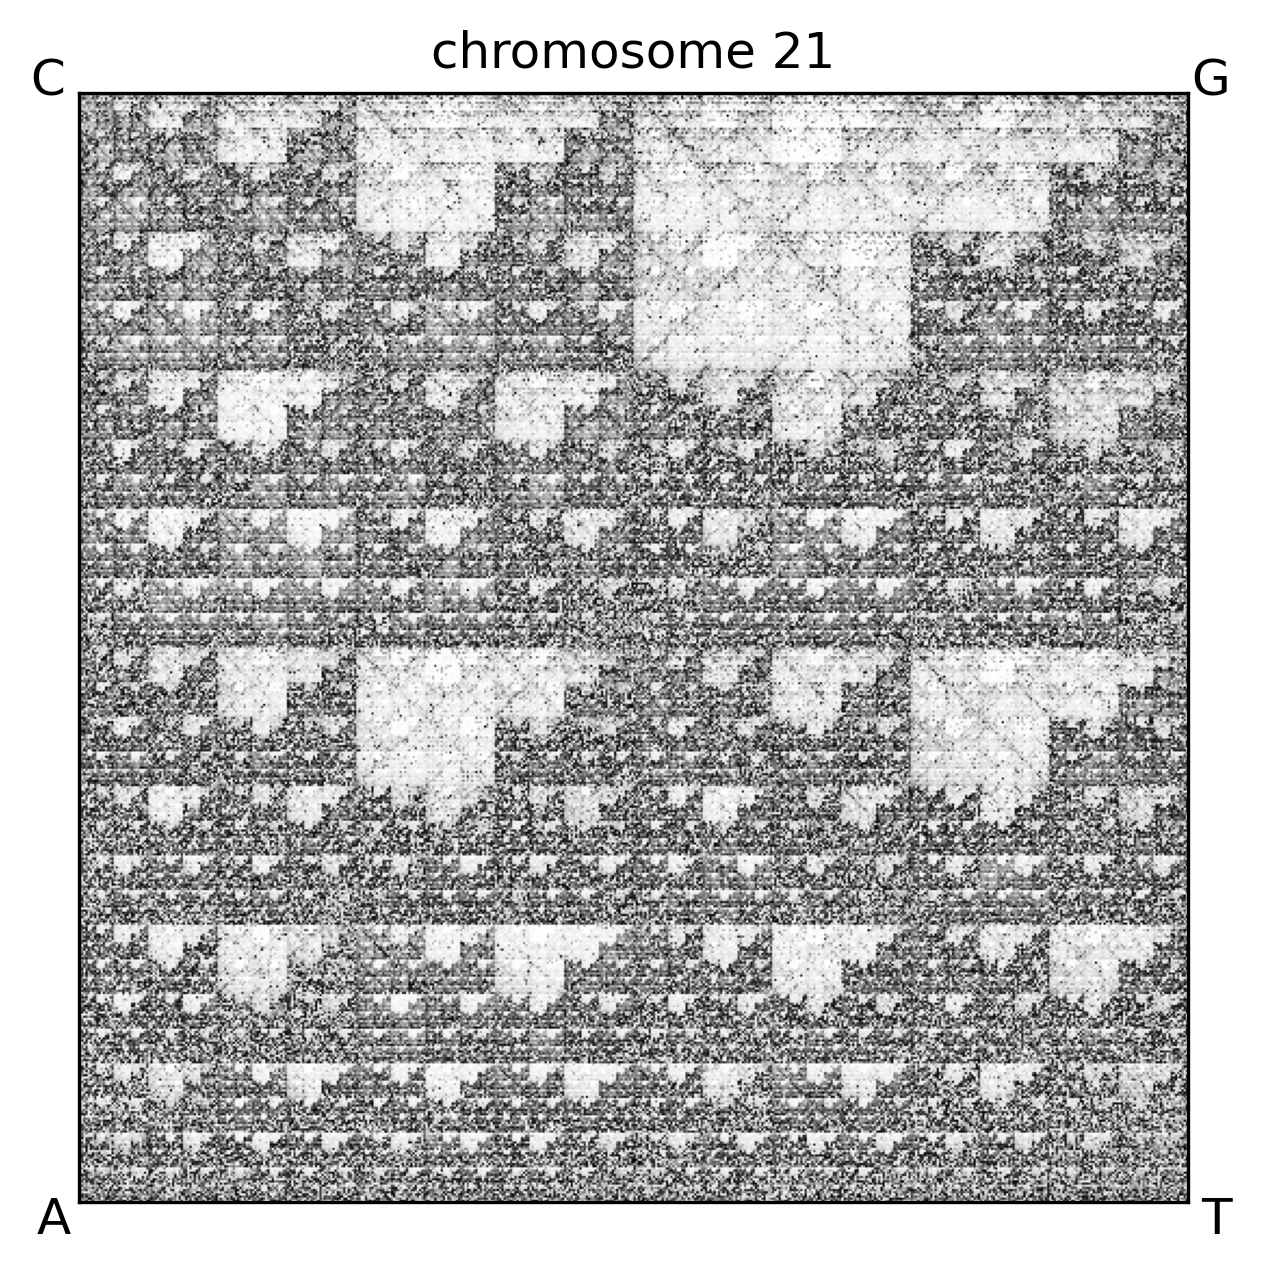
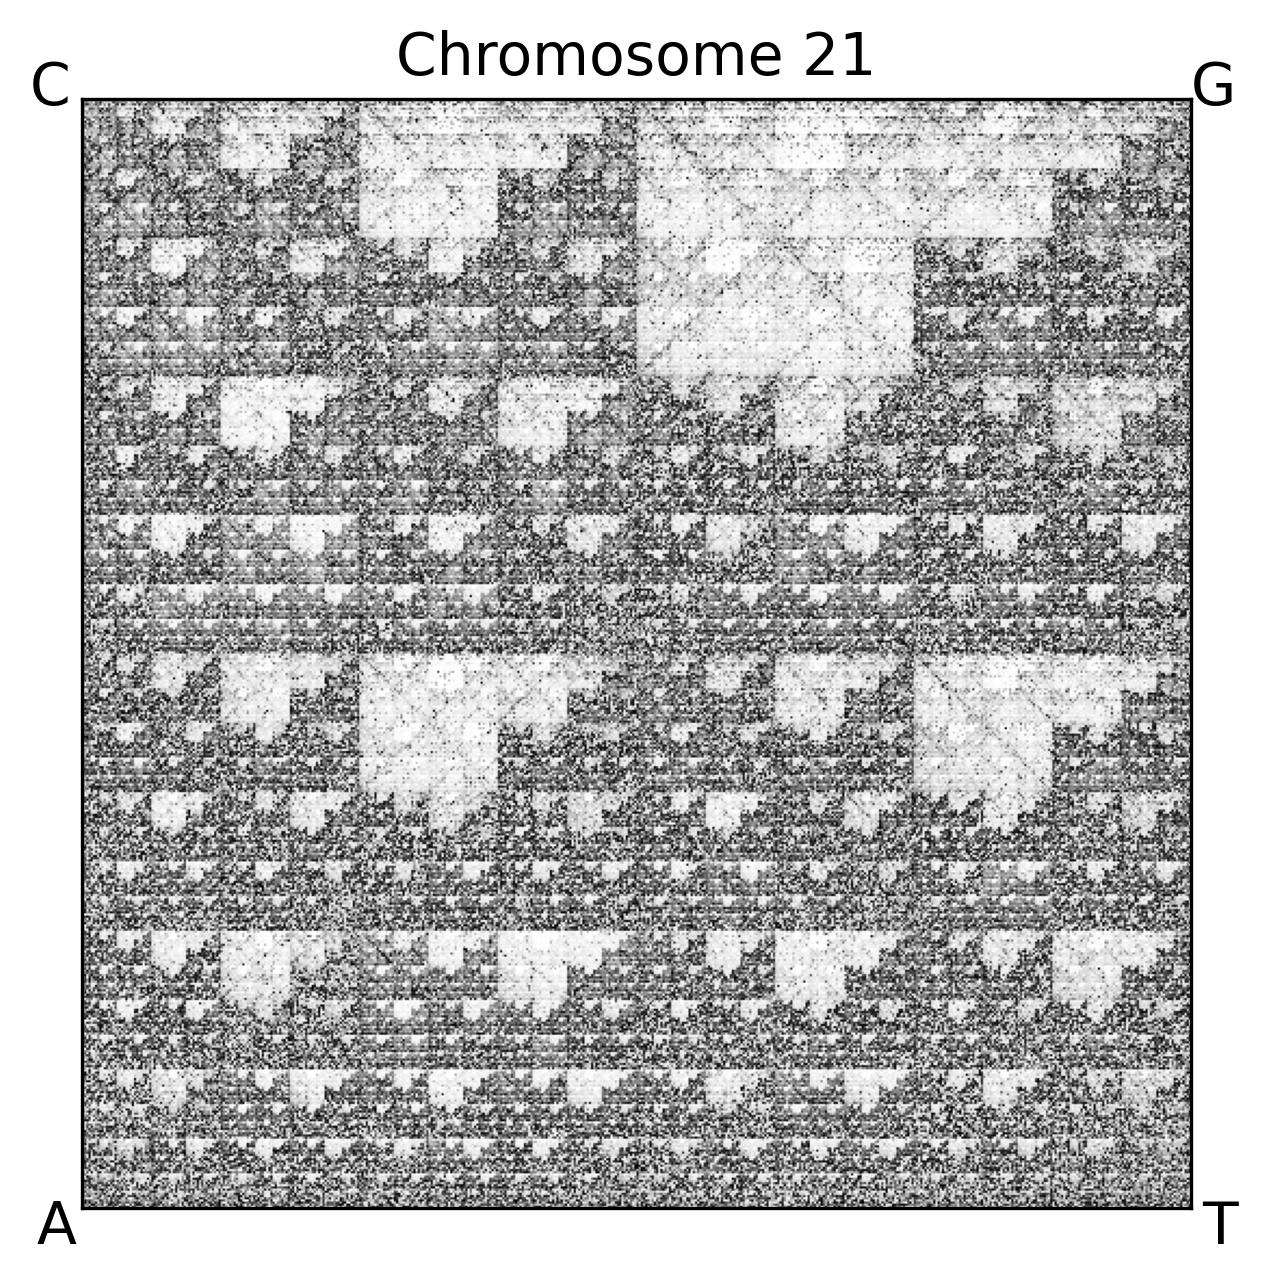
Added multi_dimensional_scaling function and tested it.

diff --git a/representative_selection.py b/representative_selection.py
@@ -3,12 +3,15 @@ import os
 import pickle
 
 import numpy as np
+import pandas as pd
+from sklearn.manifold import MDS
 from matplotlib import pyplot as plt
 from tqdm import tqdm
 
 from chaos_game_representation import CGR
-from chromosomes_holder import ChromosomesHolder
+from chromosomes_holder import ChromosomesHolder, AnnotationRecord
 from distances.distance_metrics import get_dist
+import plotly.express as px
 
 
 class ChromosomeRepresentativeSelection:
@@ -19,7 +22,8 @@ class ChromosomeRepresentativeSelection:
         if segment_length is not None:
             self.length = segment_length
         else:
-            self.length = self.chromosomes_holder.get_appropriate_segment_length()
+            self.length = self.chromosomes_holder.get_appropriate_segment_length(scale='genome')
+        print(f"Segment length for {self.specie} is {self.length}")
         self.distance_metric = distance_metric
 
         self.pickle_path_root = f"./outputs/cache_pickles/{self.specie}/"
@@ -105,9 +109,6 @@ class ChromosomeRepresentativeSelection:
                 "fcgr": representative_dict['fcgr'],
                 "type": "approximative"}
 
-    def plot_multi_dimensional_scaling(self):
-        pass
-
     def get_distance_from_representative(self, chromosome_name, representative_dict):
         if representative_dict['type'] == "approximative":
             fcgrs = self.get_fcgrs_of_segments(chromosome_name)
@@ -158,7 +159,7 @@ class ChromosomeRepresentativeSelection:
             plt.plot(distance_from_outlier_representative, marker='o', linestyle='-', markersize=4, color='purple')
 
         if plot_approximate:
-            approximate_representative_dict = self.get_approximate_representative(chromosome_name)
+            approximate_representative_dict = self.get_approximate_representative(chromosome_name, verbose=True)
             distance_from_approximate_representative = \
                 self.get_distance_from_representative(chromosome_name, approximate_representative_dict)
 
@@ -283,8 +284,46 @@ class ChromosomeRepresentativeSelection:
                 outlier_indices.append(index)
         return outlier_indices
 
+    @staticmethod
+    def plot_multi_dimensional_scaling(distance_matrix, info: list, representative_index=None, coloring_type='NCBI'):
+        mds = MDS(n_components=3, dissimilarity='precomputed', random_state=46)
+        mds_result = mds.fit_transform(distance_matrix)
+
+        # Add description for each data
+        data_description = np.asarray(
+            [f"<br>Start: {info[i].start}<br>band: {info[i].name}" for i in range(len(mds_result))])
+        labels = np.asarray([f"{info[i].color_name}" for i in range(len(mds_result))])
+        chrs = np.asarray([f"{info[i].chr_name}" for i in range(len(mds_result))])
+        data = {'x': mds_result[:, 0], 'y': mds_result[:, 1], 'z': mds_result[:, 2], 'description': data_description,
+                'labels': labels, 'chromosome': chrs}
+
+        if representative_index is not None:
+            data['labels'][representative_index] = "Representative"
+
+        df = pd.DataFrame(data)
+
+        if coloring_type == 'NCBI':
+            # Draw based on NCBI colors for each chromosome
+            fig = px.scatter_3d(df, x='x', y='y', z='z', color='labels', symbol='chromosome',
+                                color_discrete_map=AnnotationRecord.get_color_display_dict(),
+                                hover_data={'x': False, 'y': False, 'z': False, 'labels': False, 'chromosome': True,
+                                            'description': True})
+        elif coloring_type == 'Chromosome':
+            # Draw each Chromosome with different color
+            fig = px.scatter_3d(df, x='x', y='y', z='z', color='chromosome', symbol='chromosome',
+                                hover_data={'x': False, 'y': False, 'z': False, 'labels': False, 'chromosome': True,
+                                            'description': True})
+        else:
+            raise ValueError("Invalid coloring type")
+
+        fig.update_layout(scene=dict(xaxis=dict(range=[-1, 1]), yaxis=dict(range=[-1, 1]), zaxis=dict(range=[-1, 1])))
+        fig.show()
+
 
 if __name__ == '__main__':
     human_representative = ChromosomeRepresentativeSelection('human', 6, 'DSSIM')
     for chr_name in human_representative.chromosomes_holder.get_all_chromosomes_name():
-        human_representative.plot_distance_variations(chr_name)
+        human_representative.plot_distance_variations(chr_name, plot_random_outliers=False)
+        segments_info = human_representative.get_non_overlapping_segments(chr_name)['segments_information']
+        human_representative.plot_multi_dimensional_scaling(human_representative.get_distance_matrix(chr_name),
+                                                            segments_info, coloring_type='Chromosome')

diff --git a/chromosomes_holder.py b/chromosomes_holder.py
@@ -25,9 +25,21 @@ class AnnotationRecord:
         self.end = end
         self.group = group
         self.color = color
+        self.color_name = None
+        self.display_color = None
+        color_name = {"w": "White", "lg": "Light Gray", "g": "Gray", "dg": "Dark Gray", "b": "Black", "pi": "Pink",
+                      "pu": "Purple", "R": "Representative"}
+
+        if self.color is not None:
+            self.color_name = color_name[self.color]
 
     def __repr__(self):
         return f"{self.chr_name}_{self.name}, {self.start}, {self.end}, {self.group}"
+
+    @staticmethod
+    def get_color_display_dict():
+        return {"White": "#C0C0C0", "Light Gray": "#808080", "Gray": "#696969", "Dark Gray": "#505050",
+                "Black": "#000000", "Pink": "#fc9ea3", "Purple": "#c89efc", "Representative": "#ff0000"}
 
 
 class ChromosomesHolder:
@@ -73,11 +85,21 @@ class ChromosomesHolder:
     def get_largest_chromosome_length(self):
         return max(self.get_all_chromosome_length().values())
 
-    def get_appropriate_segment_length(self):
-        total_genome_length = sum(self.get_all_chromosome_length().values())
-        app_length = total_genome_length // 6234
-        app_length //= 1000
-        app_length *= 1000
+    def get_appropriate_segment_length(self, scale='genome'):
+        """
+        :param scale: chromosome or genome
+        """
+        if scale == 'genome':
+            total_genome_length = sum(self.get_all_chromosome_length().values())
+            app_length = total_genome_length // 6234
+            if app_length > 1000:
+                app_length //= 1000
+                app_length *= 1000
+        else:
+            app_length = self.get_largest_chromosome_length() // 500
+            if app_length > 1000:
+                app_length //= 1000
+                app_length *= 1000
         return app_length
 
     def get_segment(self, chromosome_name, start_of_segment, sequence_length):
@@ -244,8 +266,8 @@ class ChromosomesHolder:
 
         # Annotating each point
         for (x, y), label in zip(points, labels):
-            plt.text(x, y, label, color='black', fontsize=12, ha='center', va='center')
-        plt.title(f"chromosome {chromosome_name}")
+            plt.text(x, y, label, color='black', fontsize=14, ha='center', va='center')
+        plt.title(f"Chromosome {chromosome_name}", fontsize=14)
 
         save_path = os.path.join('Figures', 'FCGRs', self.species)
         if not os.path.exists(save_path):
@@ -375,9 +397,10 @@ class ChromosomesHolder:
 
 
 if __name__ == '__main__':
-    genome = ChromosomesHolder("maize")
+    genome = ChromosomesHolder("human")
+
     # genome.get_random_segment(1000, remove_outlier=True)
     # genome.get_chromosome_non_overlapping_segments("1", 1000)
-    # genome.plot_fcgr("21")
-    genome.create_chromosomes_files("GCA_022117705.1_Zm-Mo17-REFERENCE-CAU-T2T-assembly_genomic.fna")
+    genome.plot_fcgr("Y")
+    # genome.create_chromosomes_files("GCA_022117705.1_Zm-Mo17-REFERENCE-CAU-T2T-assembly_genomic.fna")
     print("")

diff --git a/misc/clean_images.py b/misc/clean_images.py
@@ -45,7 +45,7 @@ def process_images(directory, crop_margins):  # , output_size):
 
 
 # Specify the directory containing the images
-image_directory = "../Figures/Representative/human/Different_centroids"
+image_directory = "../Figures/Representative/maize/Different_centroids"
 
 
 # Specify the crop margins as percentages of each side
